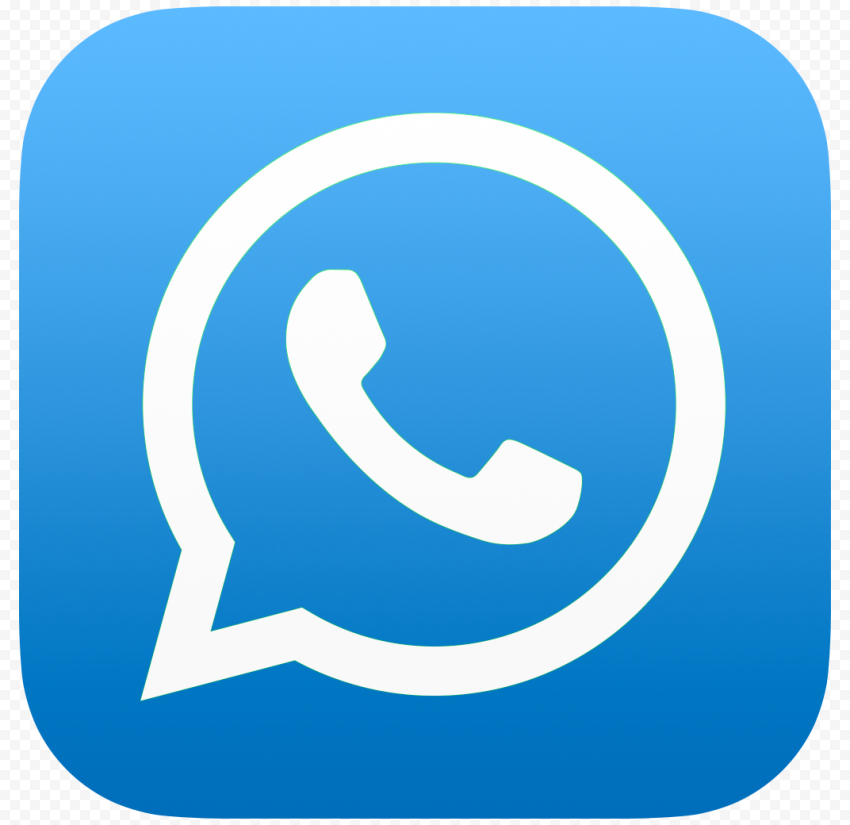
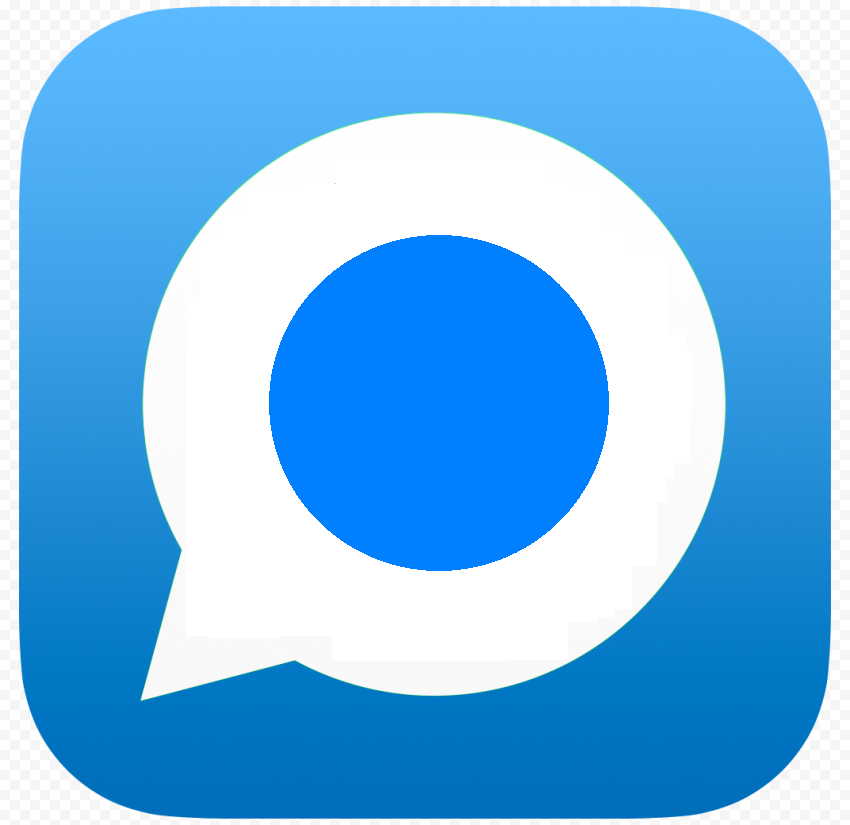
images

Changed region(s): [[0.2141, 0.1818, 0.7953, 0.7879]]

diff --git a/deeplearning/undergraduate-research.html b/deeplearning/undergraduate-research.html
@@ -500,7 +500,7 @@
 						</div>
 
 
-						<div style="margin: 2px 5px 0px 5px;" width = "55">
+						<div style="margin: 2px 5px 0px 5px;" width = "57">
 						<a href="https://twitter.com/share?ref_src=twsrc%5Etfw" class="twitter-share-button" data-show-count="false"><b>Tweet</b></a><script async src="https://platform.twitter.com/widgets.js" charset="utf-8"></script>
 						</div>
 
@@ -519,8 +519,8 @@
 						<script async src="https://telegram.org/js/telegram-widget.js?14" data-telegram-share-url="https://abstractions.dev/deeplearning/undergraduate-research.html"></script>
 					</div>
 
-						<a href="whatsapp://send?text=https://abstractions.dev/deeplearning/undergraduate-research.html" data-action="share/whatsapp/share" target="_blank"> <img src="images/wp.png" width="20" style="margin: 1px 5px 0px 5px;">
-        				</a> 
+						<!a href="whatsapp://send?text=https://abstractions.dev/deeplearning/undergraduate-research.html" data-action="share/whatsapp/share" target="_blank"> <!img src="images/w.jpg" width="20" style="margin: 1px 5px 0px 5px;">
+        				<!/a> 
 
   
 						<!--End mc_embed_signup-->
